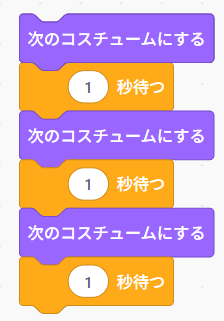
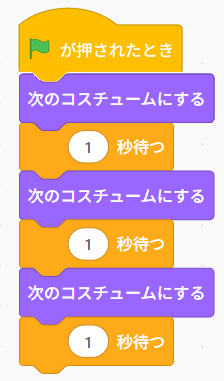
制御編 c1 に画面キャプチャを入れ、「緑の旗」のきまりで教材をそろえる
- 「緑の旗が押されたとき」のきまりを AUTHORING.md に追加
  （ブロック1つはクリック、2つ以上つないだら必ずイベントのブロック）
- b2・b3・c1 の旗のない画像8枚に、旗のブロックを合成して手順も「緑の旗」にそろえる
- i3 に「緑の旗のブロックってなに？」を追加（旗なしでもクリックで動くことも説明）
- c1 に画面キャプチャを入れ、wip を外す
  （前後をくらべる図、くりかえしの口の中・下、2つのくりかえしの下の形、保存・名前の変更・読み込み）
- c1 のやってみようを、マウスを追いかけるにじ色のネコを作る課題に書き直す

diff --git a/docs/b2_looks/index.html b/docs/b2_looks/index.html
@@ -109,13 +109,13 @@
 
 :::
 
-「次のコスチュームにする」を2つつないでクリックすると……**何も変わらない**ように見えるね。
+「次のコスチュームにする」を2つつないで緑の旗で動かすと……**何も変わらない**ように見えるね。
 
 コンピューターは**速すぎて**、目で見えないんだ。
 
 1. 「**制御**」の「**1 秒待つ**」をえらぶ
-2. 「次のコスチュームにする」と「1 秒待つ」を、**交互に**3組つなぐ
-3. クリックすると、1秒ごとに足の形が変わる
+2. 緑の旗のブロックの下に、「次のコスチュームにする」と「1 秒待つ」を**交互に**3組つなぐ
+3. 緑の旗をクリックすると、1秒ごとに足の形が変わる
 
 > 「**制御**」はオレンジのブロック。くわしくは制御編でおぼえるよ。
 
@@ -129,9 +129,9 @@
 
 :::
 
-1. 「**次のコスチュームにする**」「**10 歩動かす**」「**1 秒待つ**」をつなぐ
+1. 緑の旗のブロックの下に、「**次のコスチュームにする**」「**10 歩動かす**」「**1 秒待つ**」をつなぐ
 2. 「1 秒待つ」の数字を **0.2** にする
-3. いちばん上のブロックを**右クリック**して「**複製**」
+3. 「**次のコスチュームにする**」を**右クリック**して「**複製**」
 4. 下につなげる。これを何回かくりかえす
 
 > 同じブロックがならんで長いね。制御編で、これを**短くする方法**をおぼえるよ。
@@ -151,6 +151,8 @@
 
 小さくしたいときは、**-10** のようにマイナスにするよ。
 
+緑の旗の下に「**1 秒待つ**」と交互につないで、緑の旗で動かしてみよう。
+
 > 右下の「**大きさ**」の数字も、いっしょに変わるのを見てみよう。
 
 :::
@@ -163,8 +165,8 @@
 
 :::
 
-1. 「**色 の効果を 25 ずつ変える**」と「**1 秒待つ**」を、交互に4組つなぐ
-2. クリックして、ネコがどうなるか見てみる
+1. 緑の旗のブロックの下に、「**色 の効果を 25 ずつ変える**」と「**1 秒待つ**」を交互に4組つなぐ
+2. 緑の旗をクリックして、ネコがどうなるか見てみる
 3. 「**画像効果をなくす**」をクリックすると、もとにもどる
 
 > 「色」の ▼ からは「**魚眼レンズ**」「**渦巻き**」「**幽霊**」などもえらべるよ。

diff --git a/docs/b3_sound/index.html b/docs/b3_sound/index.html
@@ -73,12 +73,12 @@
 
 :::
 
-「鳴らす」ブロックは**2つ**あるよ。それぞれ**3つ**つないで、くらべてみよう。
+「鳴らす」ブロックは**2つ**あるよ。緑の旗の下に、それぞれ**3つ**つないでくらべてみよう。
 
 - 「**ニャー の音を鳴らす**」… 3つつなぐと、**何回**聞こえるかな？
 - 「**終わるまで ニャー の音を鳴らす**」… こちらは**何回**？
 
-先に予想してから、クリックしてたしかめよう。
+先に予想してから、緑の旗をクリックしてたしかめよう。
 
 > 音を順番に鳴らしたいときは「**終わるまで**」を使おう。
 
@@ -152,7 +152,7 @@
 - 「**音の効果をなくす**」… もとの高さにもどす
 - 「**音量を 100 %にする**」… 大きさを決める
 
-> 右の図のように交互につなぐと、どんなふうに聞こえるかな？ クリックしてたしかめよう。
+> 右の図のように交互につなぐと、どんなふうに聞こえるかな？ 緑の旗をクリックしてたしかめよう。
 
 :::
 

diff --git a/docs/i3_first/index.html b/docs/i3_first/index.html
@@ -122,6 +122,24 @@
 
 ---
 
+# 緑の旗のブロックってなに？
+
+:::
+
+「**（緑の旗）が押されたとき**」は、プログラムの**スタートの合図**を待つブロックだよ。
+
+- 旗のブロックがなくても、ブロックを**クリック**すれば動く
+- ブロック1つの働きをためすときは、クリックでOK
+- **2つ以上つないだ**プログラムは、いつも**旗のブロックの下**に作って、**緑の旗**で動かそう
+
+> 作品であそぶ人は、緑の旗でスタートするよ。
+
+:::
+
+![どちらも動くけど、プログラムは緑の旗でスタートしよう](image/index/07_flagmeaning.png)
+
+---
+
 # 🎮 ミニゲーム：何回で1周？
 
 :::

diff --git a/docs/index.html b/docs/index.html
@@ -95,9 +95,8 @@
     <div class="section-line"></div>
 
     <div class="grid">
-      <a class="card c1 wip-card" href="c1_loop/">
+      <a class="card c1" href="c1_loop/">
         <div class="face"><span class="num">1</span><span class="emoji">🔁</span></div>
-        <span class="wip">🚧 工事中</span>
         <h2>くりかえそう</h2>
         <p>「ずっと」「10 回繰り返す」で、同じ動きを何回もさせよう。作品の保存のしかたもおぼえる。</p>
       </a>
